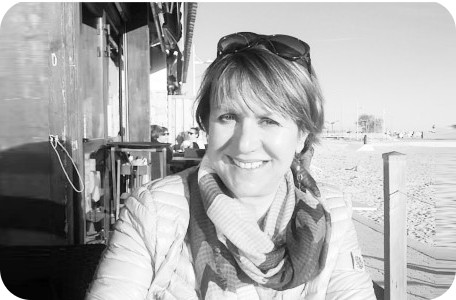
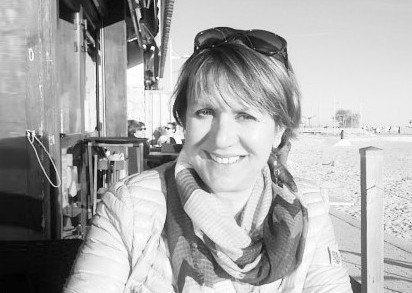
fixes: profile card, css

diff --git a/src/front-page/FPProfessions/FPProfessions.js b/src/front-page/FPProfessions/FPProfessions.js
@@ -2,29 +2,17 @@ import React from "react";
 import "./FPProfessions.css";
 import {useHistory} from "react-router-dom";
 import Image from "../../assets/images/front1bis.jpg";
+import {list_professions_data} from "../../assets/data/frontPage";
 
-const data = {
-    therapy: [{
-        title: 'psychiatre', link: 'psychiatre'
-    }, {
-        title: 'psychologue', link: 'psychologue'
-    }, {
-        title: 'psychanalyste', link: 'psychanalyste'
-    }, {
-        title: 'art thérapeute', link: 'art-thérapeute'
-    }, {
-        title: 'ergothérapeute', link: 'ergothérapeute'
-    }]
-};
-
+// todo: set as class ?
 function FPProfessions() {
 
     const history = useHistory();
     const navigate = (path) => history.push(path);
 
-    const therapyProfessions = data.therapy.map(
-        (el) => (<button className="list-button" onClick={() => navigate(el.link)}>{el.title}</button>)
-    );
+    const getProfessions = (key) => list_professions_data[key].map(
+        (el) => (<button className={'list-button' + (el.active ? ' active' : '')}
+                         onClick={() => el.active ? navigate(el.link) : ''}>{el.title}</button>));
 
     return (
         <div id="section-4" className="fp-section">
@@ -34,33 +22,33 @@ function FPProfessions() {
             <div className="list-section">
                 <div className="list-container">
                     <div>
-                        <h2>Thérapie</h2>
+                        <h2>Thérapie :</h2>
                         <div>
-                            {therapyProfessions}
+                            {getProfessions('therapy')}
                         </div>
                     </div>
 
                     <div>
-                        <h2>Aide et thérapie sociale :</h2>
+                        <h2>Aide et accompagnement social :</h2>
                         <div>
-                            {therapyProfessions}
+                            {getProfessions('social_support')}
                         </div>
                     </div>
 
                     <div>
-                        <h2>Thérapie</h2>
+                        <h2>Activités :</h2>
                         <div>
-                            {therapyProfessions}
+                            {getProfessions('activities')}
                         </div>
                     </div>
 
                 </div>
 
                 <div className="divided-image">
-                    <img src={Image}/>
+                    <img src={Image} alt=""/>
                     <div className="dividers-cont">
-                        <div  className="divider"></div>
-                        <div  className="divider"></div>
+                        <div className="divider"/>
+                        <div className="divider"/>
                     </div>
                 </div>
 

diff --git a/src/layout/Cards/CardProfile.js b/src/layout/Cards/CardProfile.js
@@ -1,24 +1,30 @@
 import React from "react";
 import "./Card.css";
 import "./CardProfile.css";
-// todo: dynamic imports
-import PatrikainenImage from '../../assets/images/Geraldine-Patrikainen.jpg';
-import User from '../../assets/images/user.png';
-import {useHistory, useParams} from "react-router-dom";
+import {useHistory} from "react-router-dom";
 import profiles from "../../assets/data/profiles";
+import {FontAwesomeIcon} from "@fortawesome/react-fontawesome";
+import {faUser} from "@fortawesome/free-solid-svg-icons/faUser";
 
 function CardProfile(props) {
 
     const history = useHistory();
     const navigate = (path) => history.push(path);
 
-    const {profile} = props;
+    const profile = profiles[props.profile];
+
+    if (!profile) {
+        // todo: handle error
+    }
     const small = props.small;
     const classes = 'card profile' + (small ? ' small' : '');
     return (
-        <div onClick={() => navigate(profile.link)} className={classes}>
-            <div className="title">
-                <img src={profile.image ? profile.image : User}/>
+        <div onClick={() => navigate("profile/" + props.profile)} className={classes}>
+            <div className={'title' + (profile.photo ? '' : ' default-user-icon')}>
+                {profile.photo ?
+                    (<img src={profile.photo} alt={profile.name}/>)
+                    : (<FontAwesomeIcon icon={faUser}/>)
+                }
                 {small ? (<h2>{profile.name}</h2>) : ''}
             </div>
             <div className="description">
@@ -27,13 +33,6 @@ function CardProfile(props) {
             </div>
         </div>
     )
-}
-
-function chooseImage(image) {
-    switch (image) {
-        case "patrikainen": return (<img src={PatrikainenImage}/>);
-        default: return (<img src={User}/>);
-    }
 }
 
 export default CardProfile;

diff --git a/src/layout/Cards/CardProfile.css b/src/layout/Cards/CardProfile.css
@@ -8,8 +8,33 @@
     width: 35%;
 }
 
+.card.profile img {
+    height: 14rem;
+    width: 100%;
+    object-fit: cover;
+}
+
+.card.profile .default-user-icon {
+    height: 14rem;
+    width: 100%;
+}
+
+.card.profile .default-user-icon svg {
+    font-size: 8rem;
+    color: rgba(167, 167, 167, 0.29);
+    width: 90%;
+    height: 90%;
+    bottom: 0;
+    padding-top: 10%;
+    /* color: white; */
+    /* background-color: #d3e3f0; */
+    position: absolute;
+    z-index: 0;
+    margin-left: 5%;
+}
+
 .card.profile:hover {
-    box-shadow: rgba(166, 167, 180, 0.55) 0px 1px 20px 0px;
+    box-shadow: rgba(166, 167, 180, 0.55) 0 1px 20px 0;
 }
 
 .card.profile .description {
@@ -29,6 +54,10 @@
     height: 100%;
     position: absolute;
     background: linear-gradient(0deg, rgba(0,0,0,0.9) 0%, rgba(0,0,0,0) 30%);
+}
+
+.card.profile.small .title.default-user-icon:before {
+    opacity: 0.5;
 }
 
 .card.profile.small .title,

diff --git a/src/assets/data/frontPage.js b/src/assets/data/frontPage.js
@@ -46,4 +46,30 @@ const cards_data_profiles = [
     }
 ];
 
-export {cards_data, cards_data_profiles};
+const list_professions_data = {
+    therapy: [{
+        title: 'psychiatre', link: 'psychiatre'
+    }, {
+        title: 'psychologue', link: 'psychologue', active: true
+    }, {
+        title: 'psychanalyste', link: 'psychanalyste', active: true
+    }, {
+        title: 'art thérapeute', link: 'art-thérapeute'
+    }, {
+        title: 'ergothérapeute', link: 'ergothérapeute'
+    }],
+    social_support: [{
+        title: 'assistante sociale', link: 'assistante-sociale'
+    }, {
+        title: 'éducateur', link: 'educateur'
+    }, {
+        title: 'médiation artistique', link: 'mediation-artistique'
+    }],
+    activities: [{
+        title: 'sport', link: 'sport'
+    }, {
+        title: 'langues', link: 'langues'
+    }]
+};
+
+export {cards_data, cards_data_profiles, list_professions_data};

diff --git a/src/front-page/FPProfessions/FPProfessions.css b/src/front-page/FPProfessions/FPProfessions.css
@@ -29,9 +29,16 @@
     color: white;
     background-color: #445989;
     margin: 5px;
+    opacity: 0.5;
+    cursor: default;
 }
 
-#section-4 .list-button:hover {
+#section-4 .list-button.active {
+    opacity: 1;
+    cursor: pointer;
+}
+
+#section-4 .list-button.active:hover {
     background-color: #2d3a5a;
 }
 
@@ -52,12 +59,13 @@
 #section-4 .divided-image .dividers-cont {
     display: flex;
     justify-content: space-evenly;
-    width: 100%;
+    width: 35%;
     position: relative;
+    margin-left: 65%;
 }
 
 #section-4 .divided-image .divider {
     width: 5px;
     height: 100%;
-    background-color: #cfd5d8;
+    background-color: white;
 }

diff --git a/src/layout/Cards/Cards.js b/src/layout/Cards/Cards.js
@@ -13,11 +13,10 @@ function Cards(props) {
             <div className="cards">
                 {
                     profiles ?
-                        Object.keys(profiles).map((key) => (<CardProfile profile={profiles[key]} small={small}/>))
+                        Object.keys(profiles).map((key) => (<CardProfile profile={key} small={small}/>))
                         : details.map((detail) => (<Card data={detail}/>))
                 }
             </div>
-            // todo: detais
             {details && details.length < 3 ? "" : (
                 <button className="cards-button dark">
                     <span>Tous les profils</span>

diff --git a/src/layout/Cards/Cards.css b/src/layout/Cards/Cards.css
@@ -13,7 +13,6 @@
     font-size: 0.8rem;
     padding: 10px 35px;
     border-radius: 10px;
-    color: var(--titles-second-color);
 }
 
 .cards-button span {
